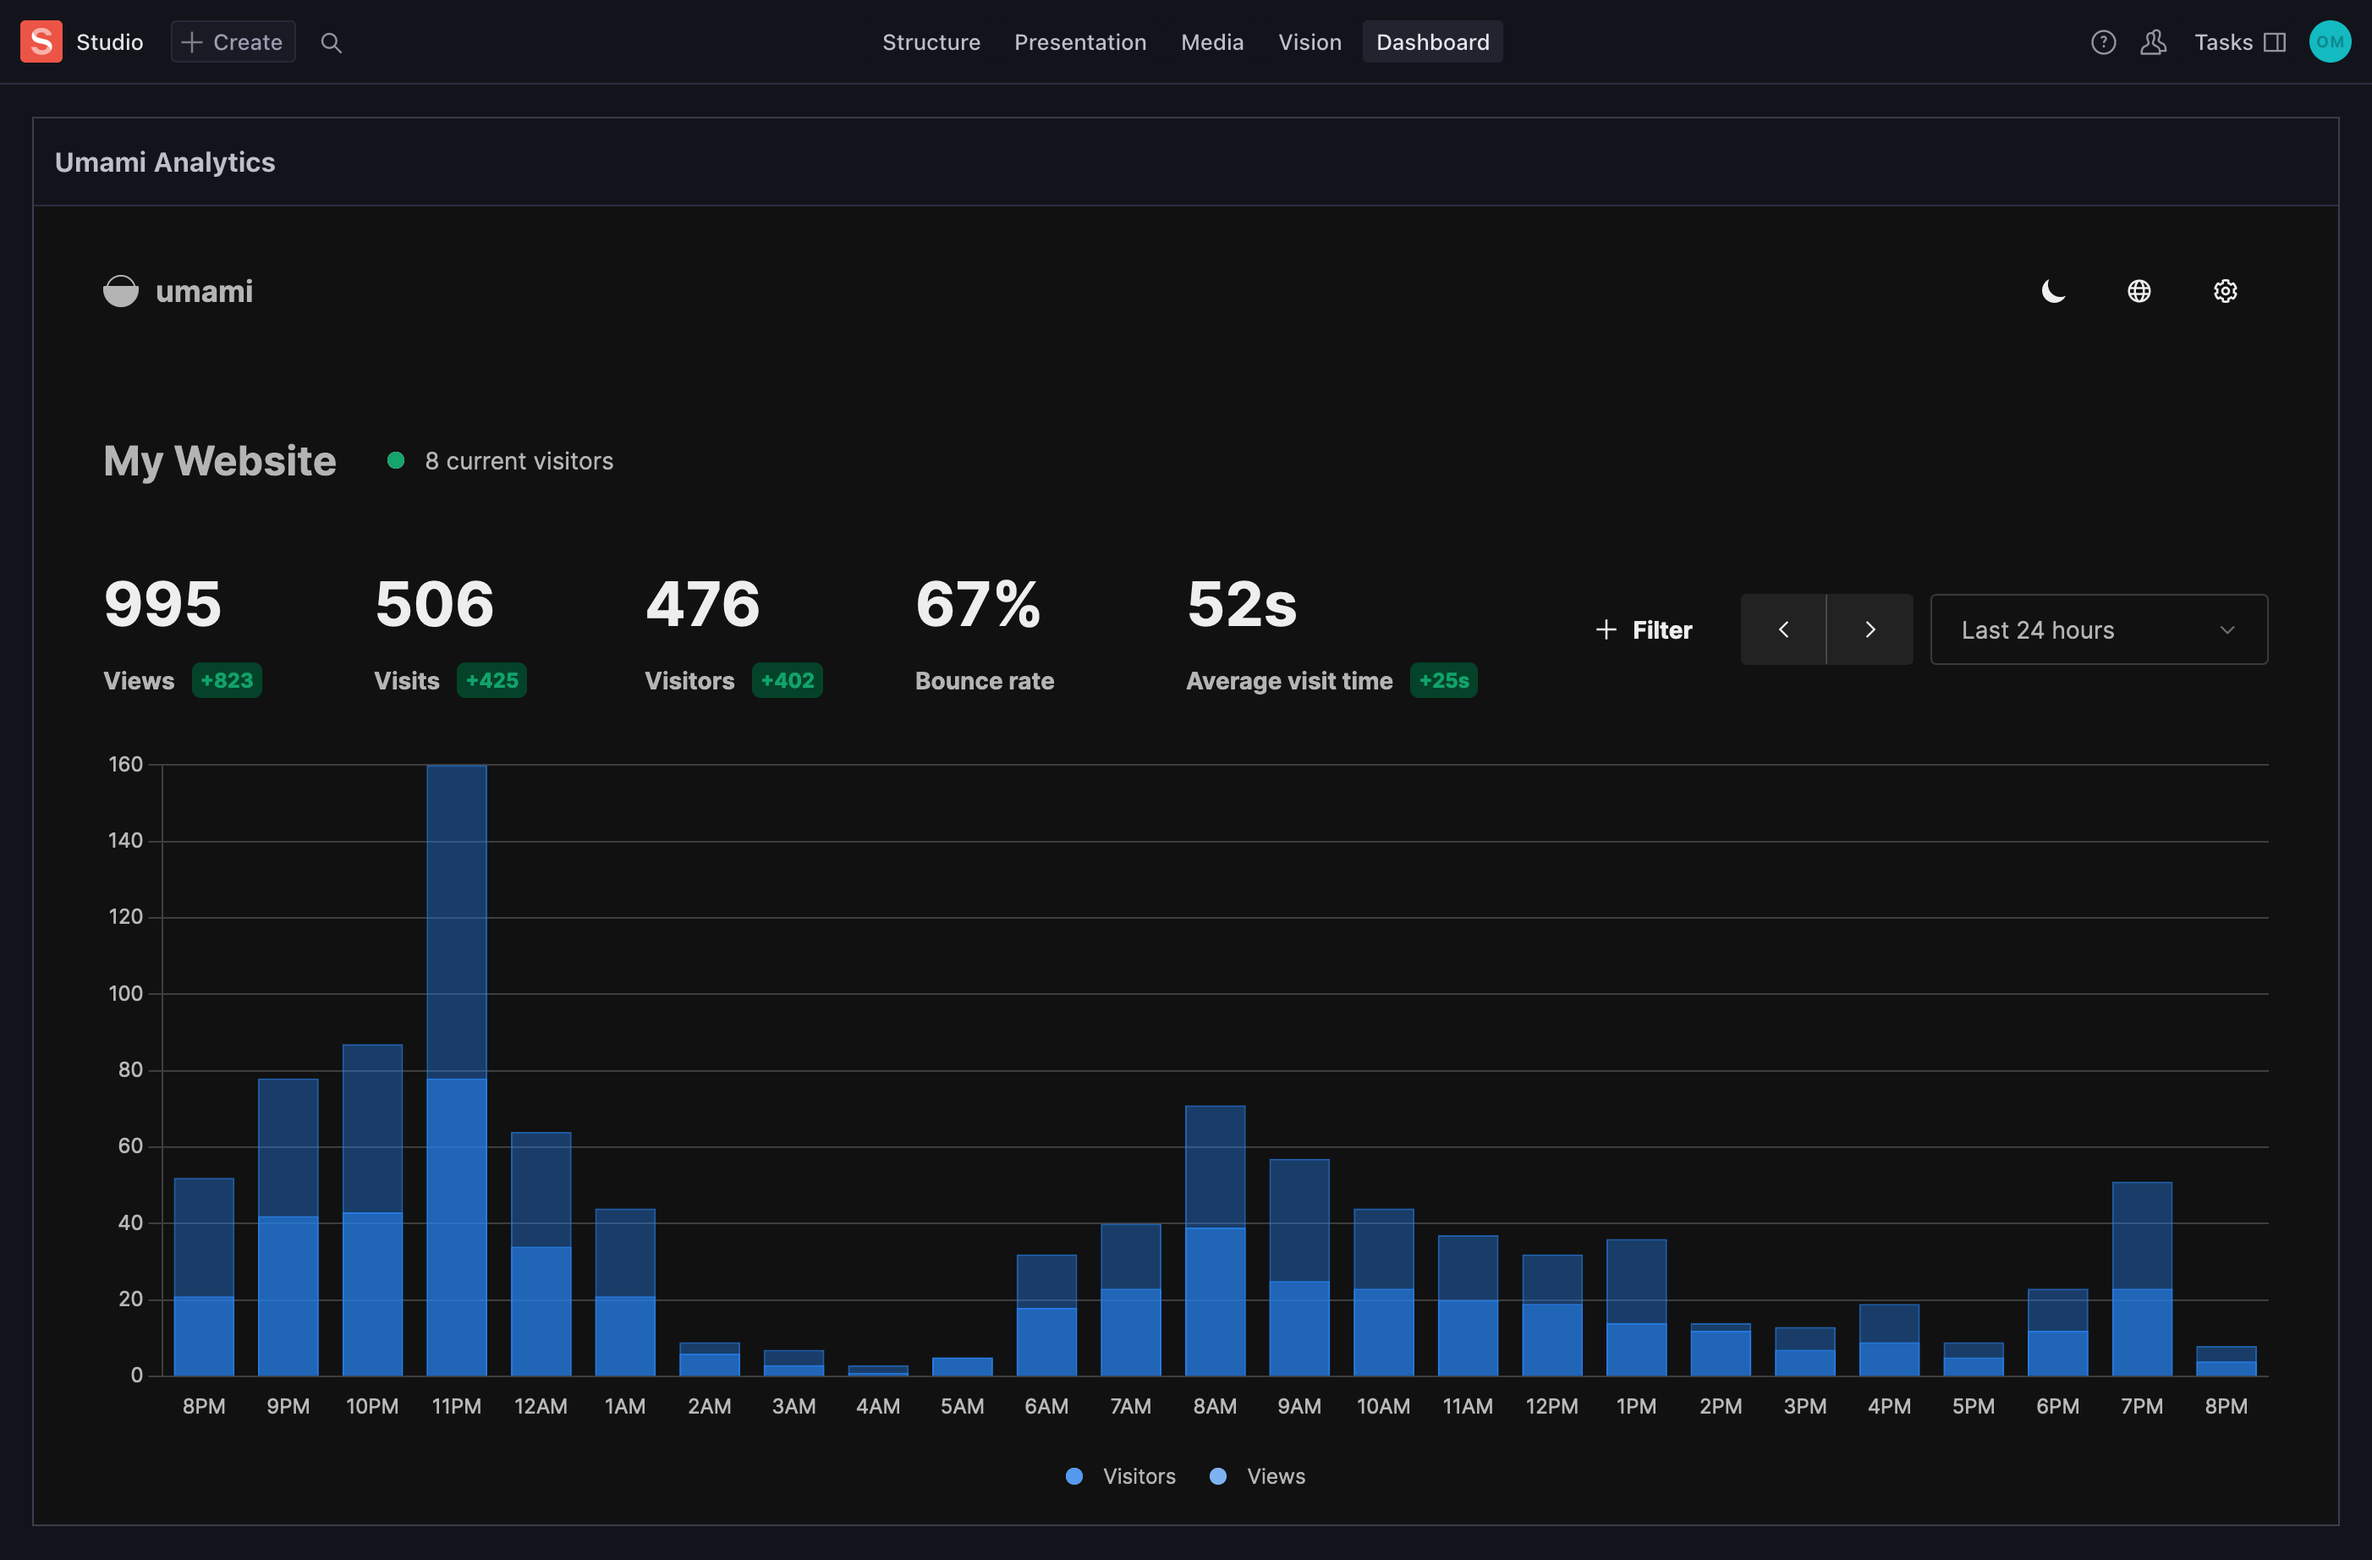
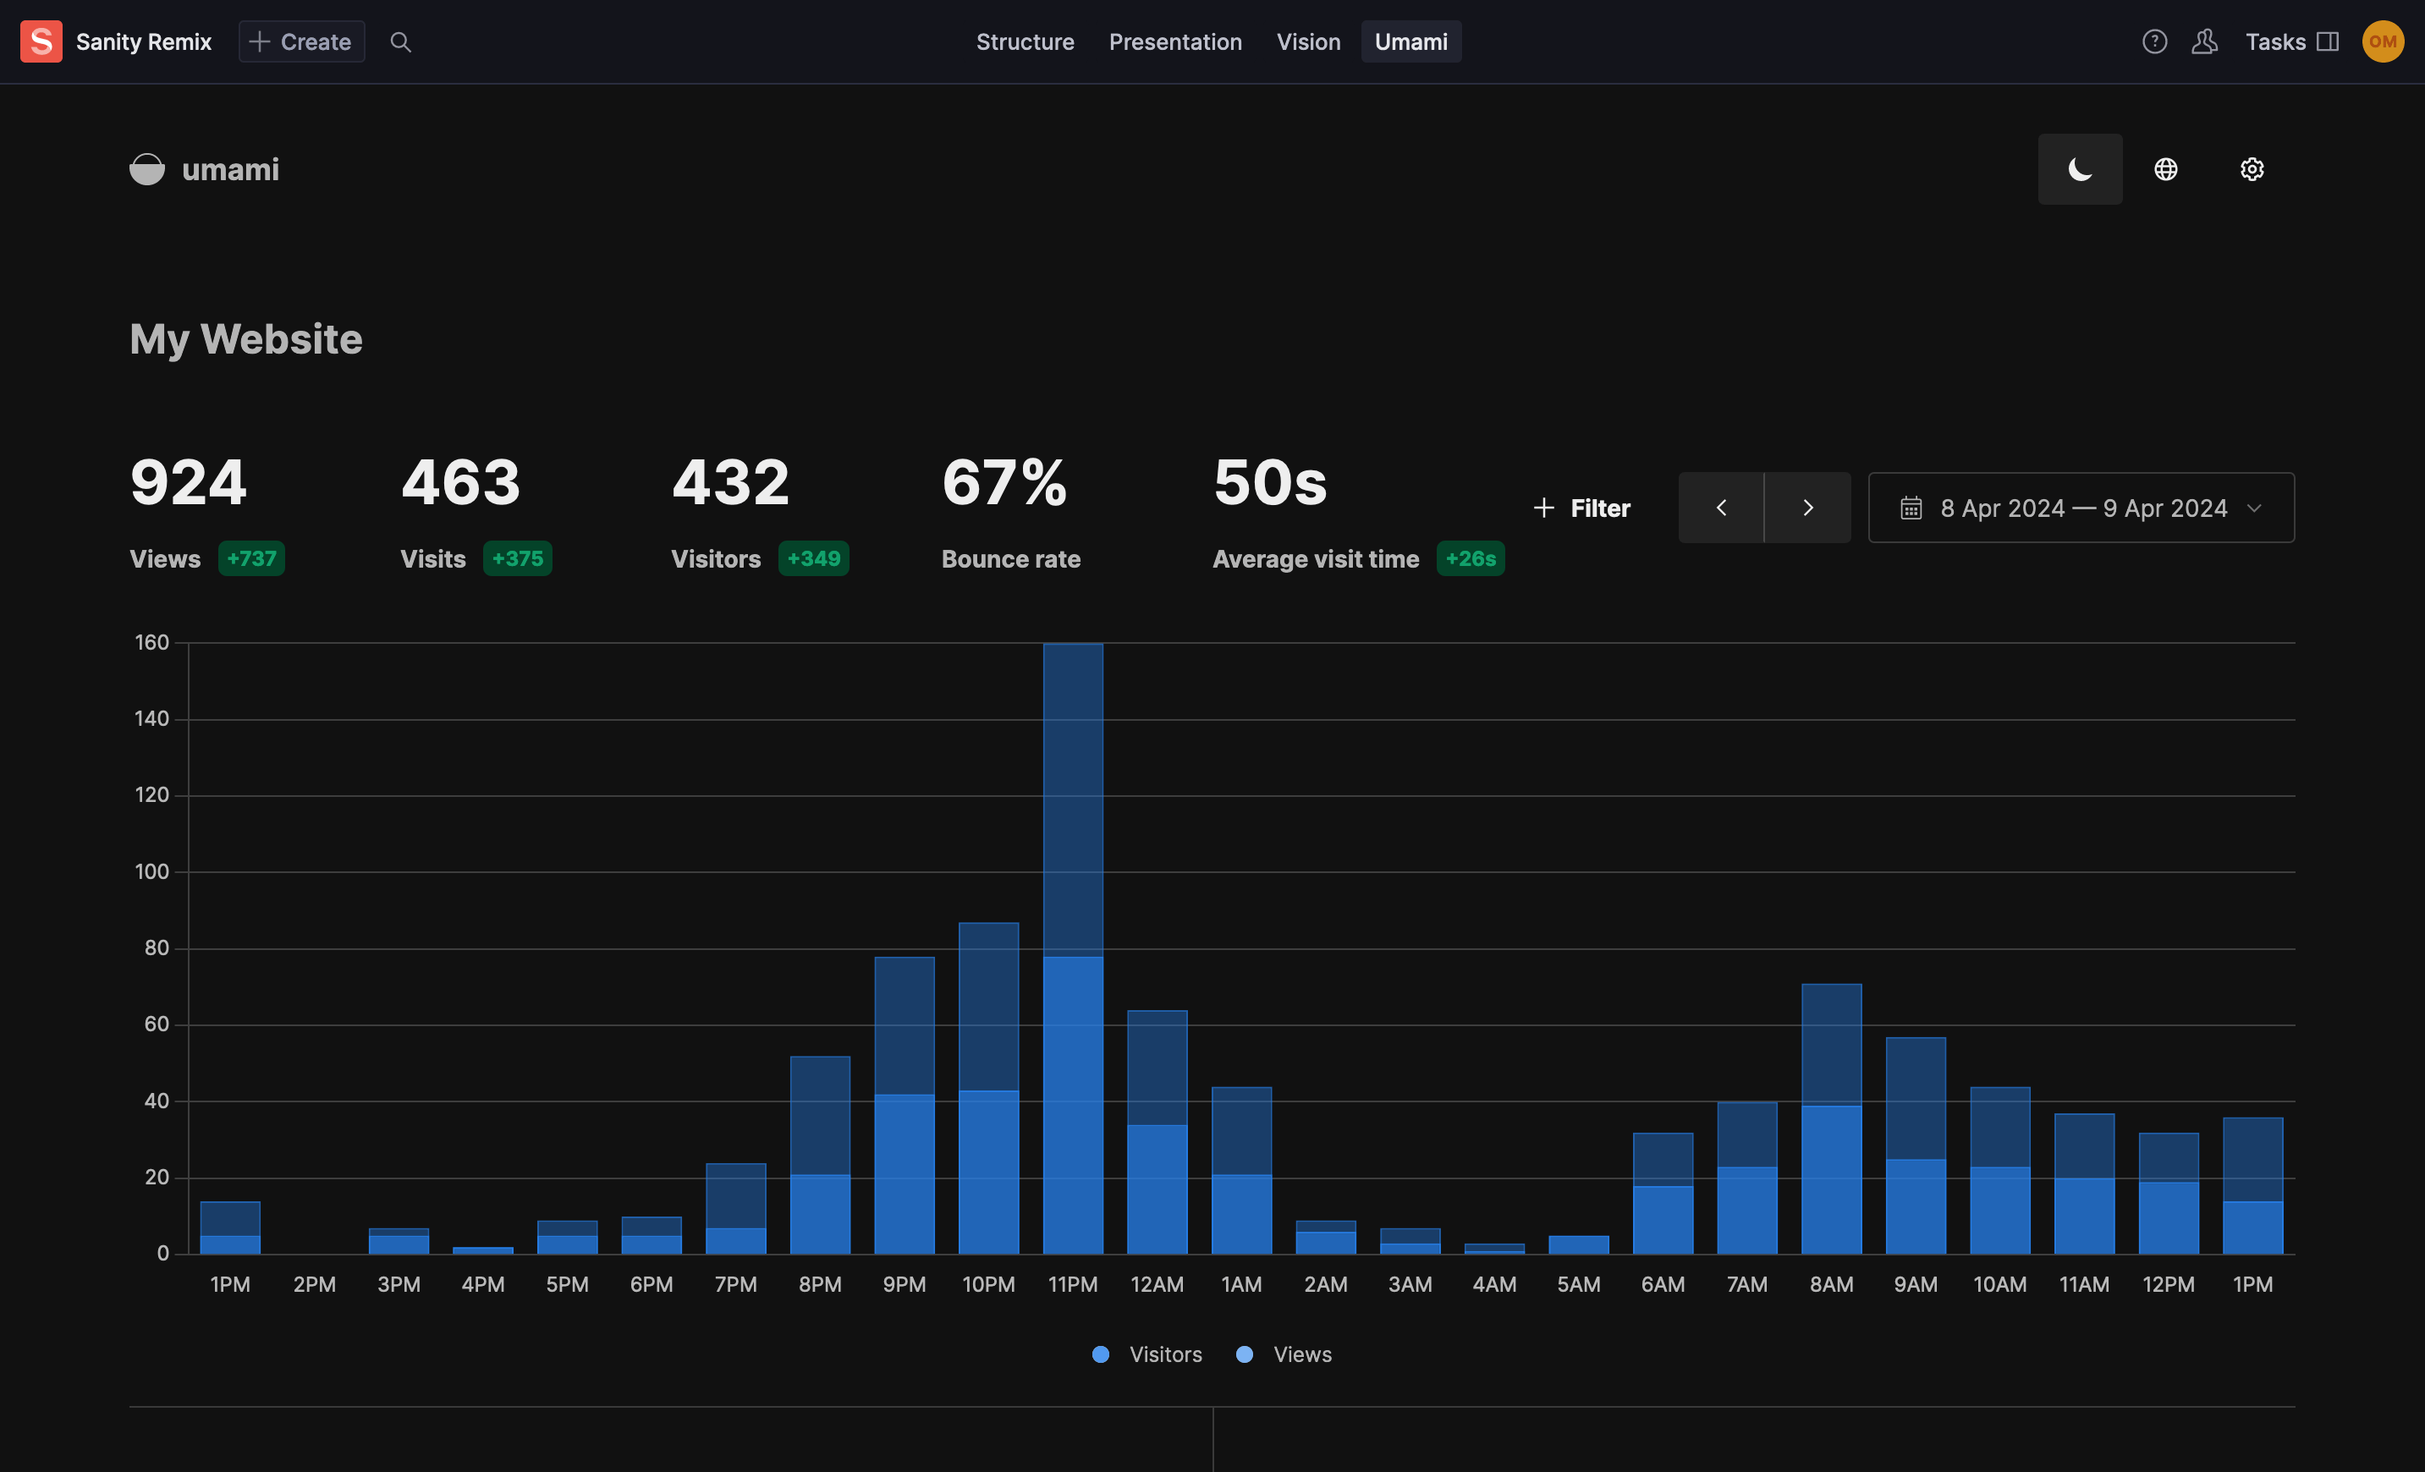
Breaking changes! This now a tool outside of the dashboardTool

diff --git a/src/tool.tsx b/src/tool.tsx
@@ -1,0 +1,31 @@
+import {ComponentConfig} from './types'
+
+export default function Tool(props: ComponentConfig) {
+  const config = {
+    url: props.tool.url || '',
+    title: props.tool.title || 'Umami Analytics',
+  }
+  return (
+    <>
+      {/* {config.title} */}
+      {/* {JSON.stringify(config)} */}
+      {config.url ? (
+        <>
+          <iframe
+            src={config.url}
+            loading="lazy"
+            style={{
+              width: '100%',
+              minWidth: 'calc(100% - 1px)',
+              height: 'calc(100vh - 50px)',
+              border: 'none',
+              verticalAlign: 'middle',
+            }}
+          />
+        </>
+      ) : (
+        <div style={{margin: '16px'}}>'url' is missing from your plugin configuration</div>
+      )}
+    </>
+  )
+}

diff --git a/src/index.ts b/src/index.ts
@@ -1,1 +1,20 @@
-export {umamiWidget, type UmamiWidgetConfig} from './plugin'
+import {lazy} from 'react'
+import {definePlugin} from 'sanity'
+import {BarChartIcon} from '@sanity/icons'
+import {UmamiToolConfig} from './types'
+
+export const umamiTool = definePlugin<UmamiToolConfig | void>((options) => {
+  const {title, url} = options || {}
+  return {
+    name: 'umamiTool',
+    tools: [
+      {
+        name: 'umami',
+        title: title || 'Umami',
+        url: url,
+        icon: BarChartIcon,
+        component: lazy(() => import('./tool')),
+      },
+    ],
+  }
+})

diff --git a/src/types.ts b/src/types.ts
@@ -1,0 +1,10 @@
+import {type Tool} from 'sanity'
+
+export interface UmamiToolConfig {
+  url: string
+  title?: string
+}
+
+export interface ComponentConfig extends UmamiToolConfig {
+  tool: Tool & {url: string; title?: string}
+}

diff --git a/README.md b/README.md
@@ -1,9 +1,9 @@
-# sanity-plugin-umami-analytics-widget
+# sanity-plugin-umami-analytics-tool
 
 > This is a **Sanity Studio v3** plugin.
 > Inspired by https://www.sanity.io/plugins/plausible-analytics-widget by Stijn.
 
-![image](https://github.com/osvennevig/sanity-plugin-umami-analytics-widget/blob/1d5ca8de90fabdb33954b8455241c35d7330f22f/image.png)
+![image](https://github.com/osvennevig/sanity-plugin-umami-analytics-tool/blob/1d5ca8de90fabdb33954b8455241c35d7330f22f/image.png)
 
 ## Umami configuration
 
@@ -15,7 +15,7 @@
 ## Installation
 
 ```sh
-npm install sanity-plugin-umami-analytics-widget
+npm install sanity-plugin-umami-analytics-tool
 ```
 
 ## Usage
@@ -24,20 +24,15 @@ Add it as a plugin inside the dashboardTool in `sanity.config.ts` (or .js):
 
 ```ts
 import {defineConfig} from 'sanity'
-import {dashboardTool} from '@sanity/dashboard'
-import {umamiWidget} from 'sanity-plugin-umami-analytics-widget'
+import {umamiTool} from 'sanity-plugin-umami-analytics-tool'
 
 export default defineConfig({
   //...
 
   plugins: [
-    dashboardTool({
-      widgets: [
-        umamiWidget({
-          url: '<your-share-url-from-umami>',
-          //example: https://eu.umami.is/share/XXXX/XXXX
-        }),
-      ],
+    umamiTool({
+      url: '<your-share-url-from-umami>',
+      //example: https://eu.umami.is/share/XXXX/XXXX
     }),
   ],
 })
@@ -47,7 +42,6 @@ export default defineConfig({
 
 - `url` - Required - the share url from Umami
 - `title` - Optional - defaults to 'Umami Analytics'
-- `height` - Optional - defaults to 'calc(100vh - 143px)'
 
 ## License
 
